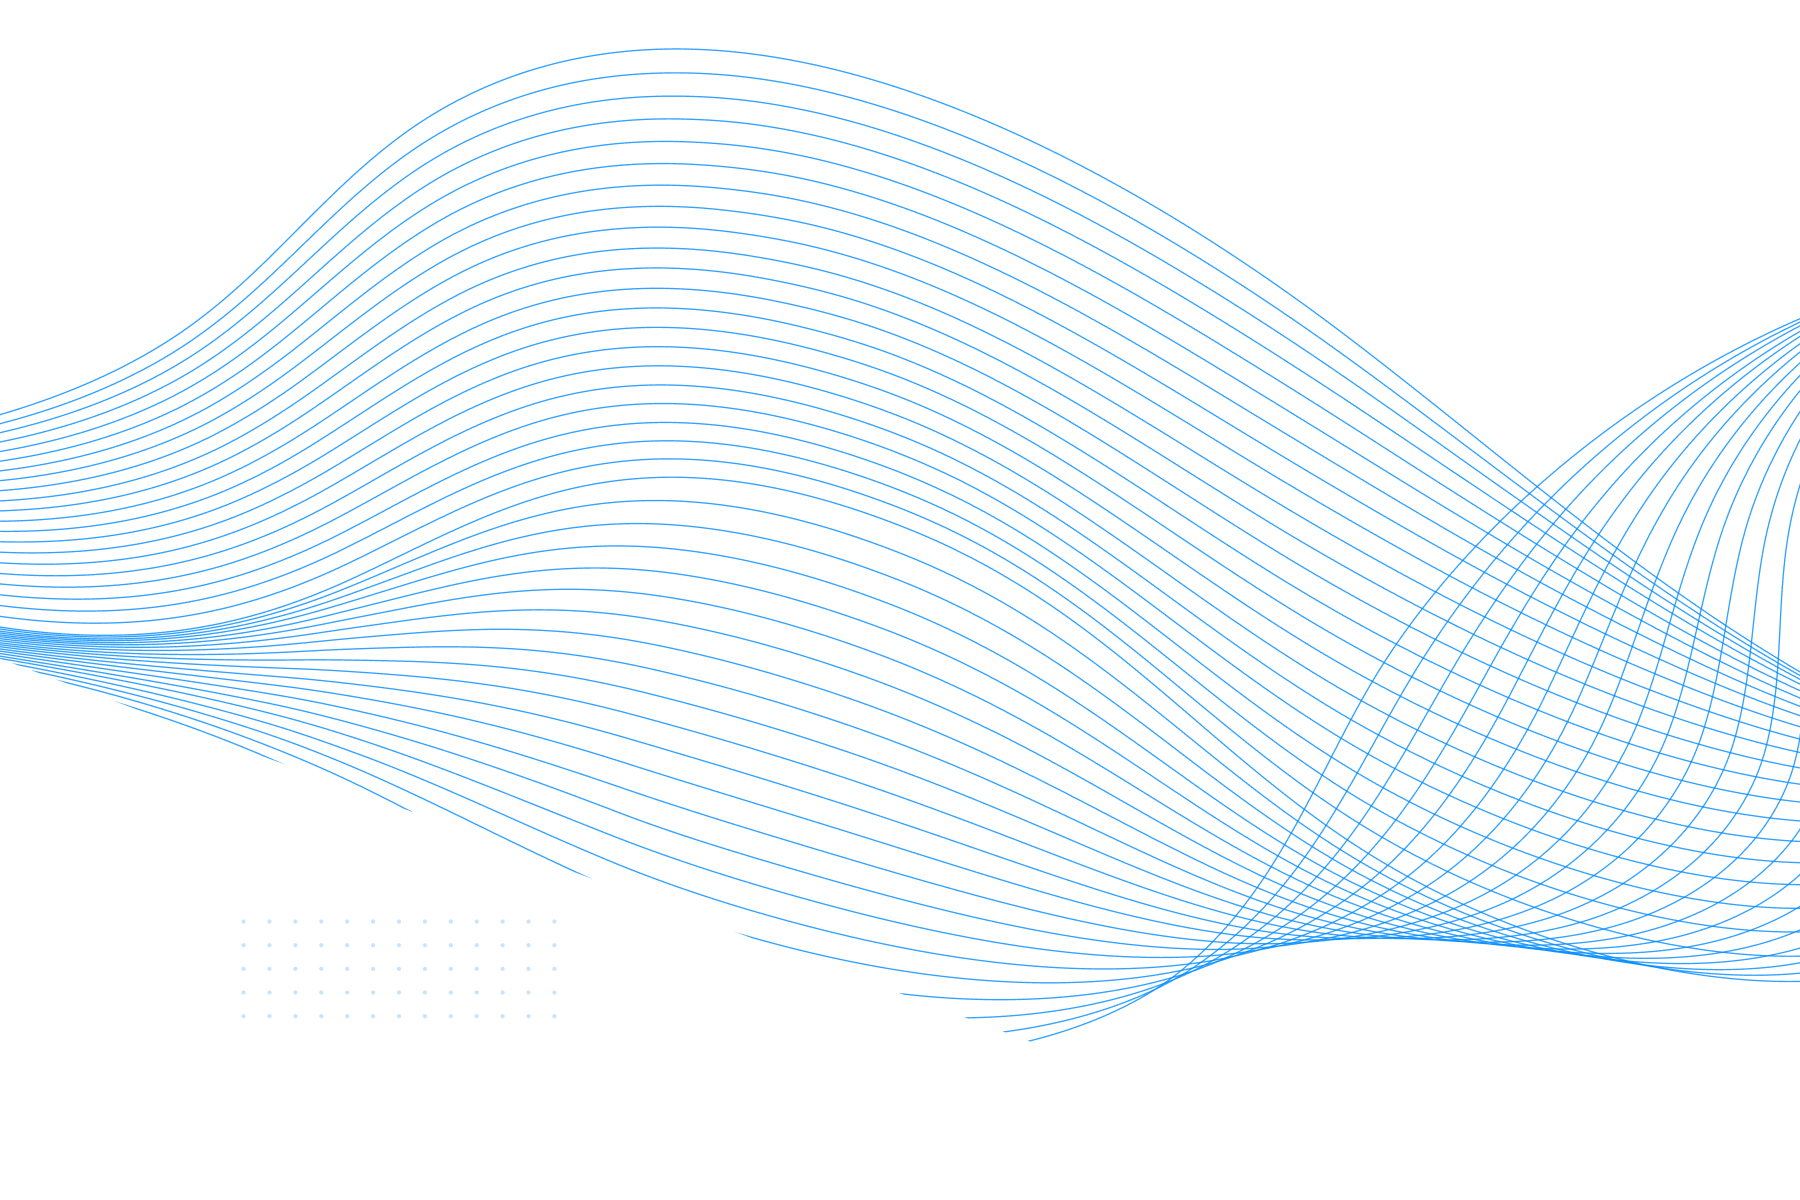
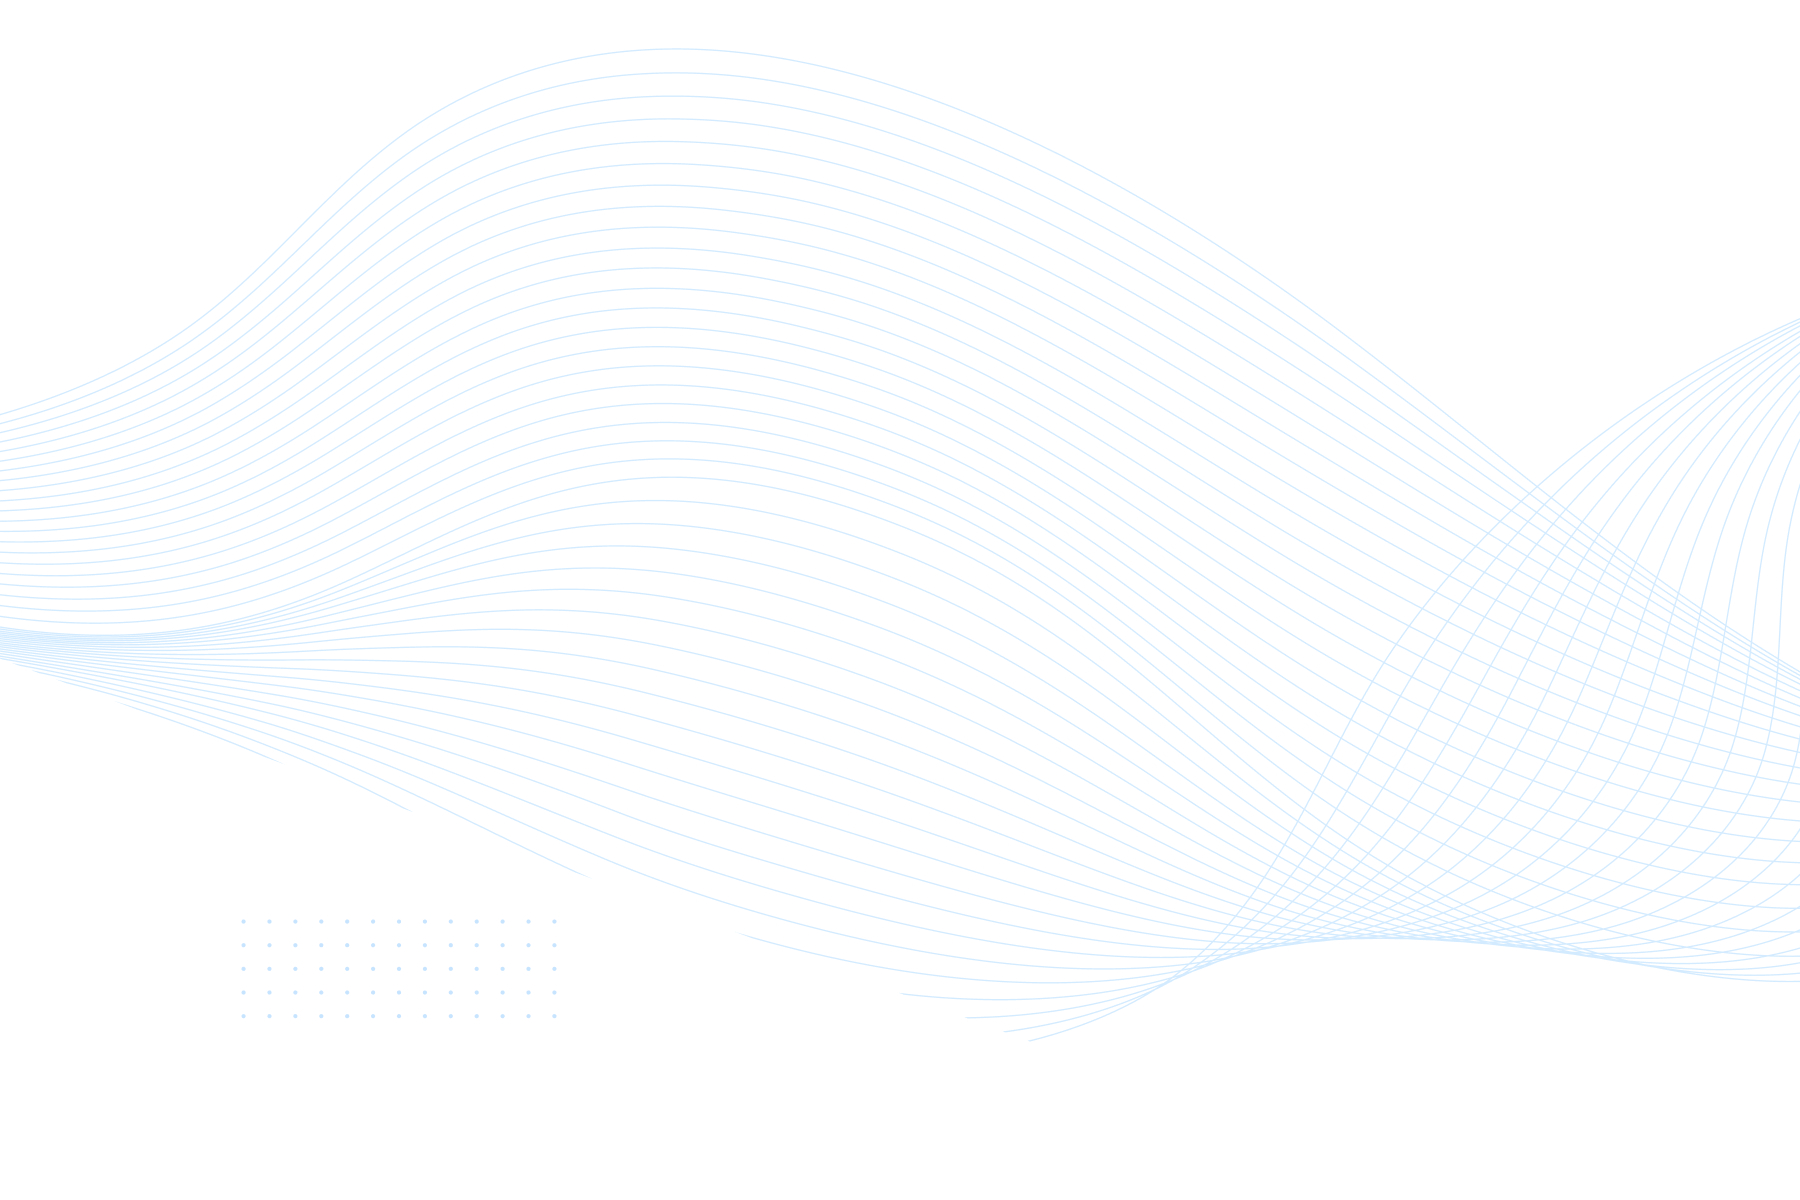
fix(dark): Solved dark mode

diff --git a/src/styles/global.css b/src/styles/global.css
@@ -76,7 +76,21 @@ body {
 
 .hero.dark {
   position: relative;
-  background: url("/grid-dark-v2.jpg") top center / cover no-repeat;
+  background: 
+  url("/grid-dark-v3.png"), 
+  linear-gradient(
+    140deg,
+    #030c13 -38%,
+    #040d1a 30%,
+    #040d1a 50%,
+    #040d1a 60%,
+    #030c13 86%
+  );
+  
+  mix-blend-mode: daken; 
+  background-size: cover;
+  background-position: top center;
+  background-repeat: no-repeat;
 }
 
 .hero.dark .hero-brand{
@@ -111,26 +125,9 @@ body {
     #e8e8e8 60%,
     #9bcbff 86%
   );
-  mix-blend-mode: multiply; /* or adjust opacity */
+  mix-blend-mode: multiply; 
   pointer-events: none;
 }
-
-.dark::before {
-  content: "";
-  position: absolute;
-  inset: 0;
-  background: linear-gradient(
-    140deg,
-    #030c13 -38%,
-    #040d1a 30%,
-    #040d1a 50%,
-    #040d1a 60%,
-    #030c13 86%
-  );
-  mix-blend-mode: multiply; /* or adjust opacity */
-  pointer-events: none;
-}
-
 
 
 .hero-2{
